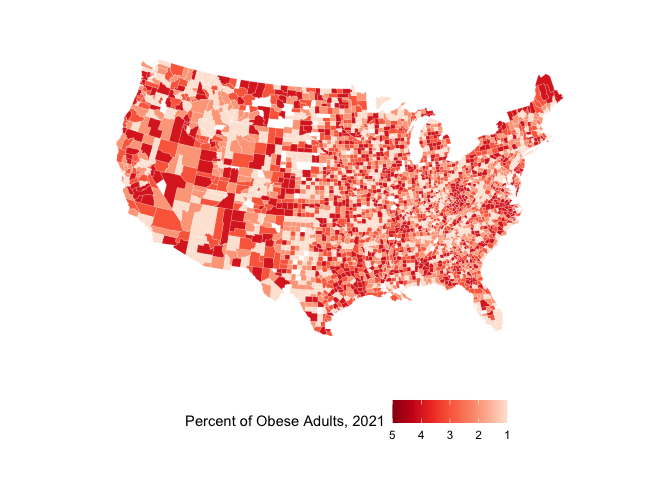
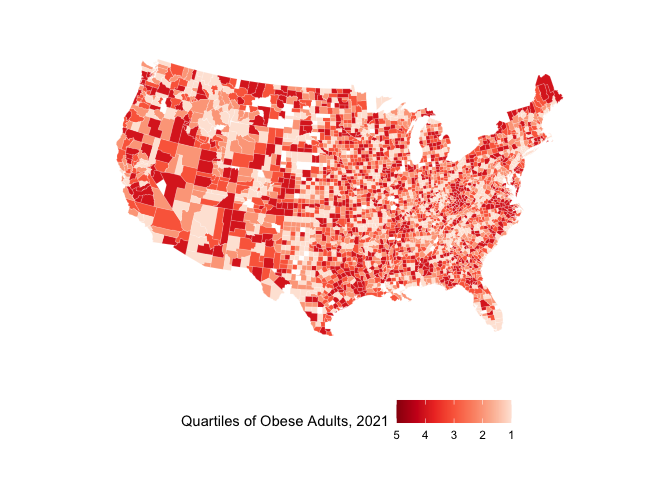
added additional eda for preventable hospitalization rate

Changed region(s): [[0.25, 0.8438, 0.5938, 0.9062], [0.75, 0.8438, 0.7812, 0.9062], [0.625, 0.875, 0.6875, 0.9062]]

diff --git a/analysis/analysis-script.md b/analysis/analysis-script.md
@@ -860,13 +860,39 @@ ggplot(county_health_full,aes(x=long,y=lat,fill=perc.obese.quart,group=group)) +
   geom_polygon(color="white",linewidth=0.05) +
   coord_map(projection="albers",lat0=39,lat1=45) + 
   scale_fill_distiller(palette="Reds",trans="reverse",na.value="white") +
-  labs(fill="Percent of Obese Adults, 2021") +
+  labs(fill="Quartiles of Obese Adults, 2021") +
   xlab("") + 
   ylab("") +
   theme(legend.position="bottom",panel.grid=element_blank(),panel.background=element_blank(),axis.text=element_blank(),axis.ticks=element_blank())
 ```
 
 ![](analysis-script_files/figure-gfm/unnamed-chunk-35-1.png)<!-- -->
+
+``` r
+ggplot(county_health_full,aes(x=long,y=lat,fill=prev.hosp.rate,group=group)) + 
+  geom_polygon(color="white",linewidth=0.05) +
+  coord_map(projection="albers",lat0=39,lat1=45) + 
+  scale_fill_distiller(palette="Reds",trans="reverse",na.value="white") +
+  labs(fill="Preventable Hospitalization Rate, 2021") +
+  xlab("") + 
+  ylab("") +
+  theme(legend.position="bottom",panel.grid=element_blank(),panel.background=element_blank(),axis.text=element_blank(),axis.ticks=element_blank())
+```
+
+![](analysis-script_files/figure-gfm/unnamed-chunk-36-1.png)<!-- -->
+
+``` r
+ggplot(county_health_full,aes(x=long,y=lat,fill=yppl.rate,group=group)) + 
+  geom_polygon(color="white",linewidth=0.05) +
+  coord_map(projection="albers",lat0=39,lat1=45) + 
+  scale_fill_distiller(palette="Reds",trans="reverse",na.value="white") +
+  labs(fill="Years of Preventable Life Lost, 2021") +
+  xlab("") + 
+  ylab("") +
+  theme(legend.position="bottom",panel.grid=element_blank(),panel.background=element_blank(),axis.text=element_blank(),axis.ticks=element_blank())
+```
+
+![](analysis-script_files/figure-gfm/unnamed-chunk-37-1.png)<!-- -->
 
 Next steps: need to add county health and county water data. Now looking
 to pivot so that one project focuses on how county health aligns with
